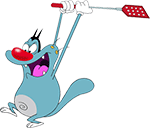
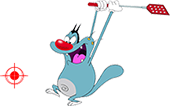
Added splash screen

diff --git a/Oggi/venv/main.py b/Oggi/venv/main.py
@@ -1,17 +1,40 @@
 import pygame
 import random
+import os
 from sprites import *
+import time
+
+pygame.init()
 
 HEIGHT = 800
 WIDTH = 1000
 QUANTITY_ROACHES = random.randint(5, 10)
-OGGI_SPRITE_UP = './Lib/1.jpg'
+OGGI_SPRITE_UP = './Lib/Oggi_up.png'
 OGGI_SPRITE_DOWN = './Lib/Oggi_down.png'
+LIST_SPRITES_NMBR = []
 LIST_ROACH_COORDS_X = []
 LIST_ROACH_COORDS_Y = []
 LIST_GRAVE_COORDS_X = []
 LIST_GRAVE_COORDS_Y = []
 ROACH_SPRITES = []
+timer = pygame.time.Clock()
+
+
+def game_intro():
+    intro = True
+    while intro:
+        for event in pygame.event.get():
+            if event.type == pygame.KEYDOWN:
+                pygame.QUIT
+                quit()
+                main()
+        pygame.font.init()
+        os.environ['SDL_VIDEO_WINDOW_POS'] = "%d,%d" % (750, 300)
+        screen = pygame.display.set_mode((480, 400), pygame.NOFRAME)
+        splash = pygame.image.load('./Lib/splash.png').convert_alpha()
+        screen.blit(splash, (0, 0))
+
+        pygame.display.update()
 
 
 def main():
@@ -19,7 +42,7 @@ def main():
     который отвечает за отрисовку спрайта курсора. В основном цикле реализован механизм
     отслеживания позиции курсора, а также нажатия кнопки мыши. """
     NEW_GAME = True
-    pygame.init()
+    os.environ['SDL_VIDEO_WINDOW_POS'] = "%d,%d" % (500, 200)
     sc = pygame.display.set_mode((WIDTH, HEIGHT))
     pygame.display.set_caption("Oggi and cockroaches")
     background = pygame.image.load('./Lib/background.jpg').convert_alpha()
@@ -40,8 +63,8 @@ def main():
         pygame.mouse.set_visible(False)
         for i3 in range(len(LIST_ROACH_COORDS_X)):
             roache_sprite.draw(sc, './Lib/roach' + str(ROACH_SPRITES[i3]) + '.png', LIST_ROACH_COORDS_X[i3],
-                               LIST_ROACH_COORDS_Y[i3])  # roache_sprite.draw(background_layout,
-            # path_to_image, coords_x, coords_y)
+                               LIST_ROACH_COORDS_Y[i3])  # roache_sprite.draw(background_layout, # path_to_image,
+                                                         # coords_x, coords_y)
         for i4 in pygame.event.get():
             mouse_x = pygame.mouse.get_pos()[0]
             mouse_y = pygame.mouse.get_pos()[1]
@@ -50,16 +73,20 @@ def main():
         if i4.type == pygame.MOUSEBUTTONDOWN:
             if i4.button == 1:
                 for i5 in range(len(LIST_ROACH_COORDS_X)):
-                    if LIST_ROACH_COORDS_X[i5] < mouse_x < LIST_ROACH_COORDS_X[i5] + 36:
-                        if LIST_ROACH_COORDS_Y[i5] < mouse_y < LIST_ROACH_COORDS_Y[i5] + 50:
+                    """Проверка попали ли курсором, по спрайту.
+                       Количество координат в LIST_ROACH_COORDS_X берется за основу количества тараканов"""
+                    if LIST_ROACH_COORDS_X[i5] < mouse_x + 10 < LIST_ROACH_COORDS_X[i5] + 36:
+                        if LIST_ROACH_COORDS_Y[i5] < mouse_y + 70 < LIST_ROACH_COORDS_Y[i5] + 50:
+                            """+10 и +70 берется для сопоставления курсора и положения хлопушки, на спрайте"""
                             print('Spoted')
                             LIST_GRAVE_COORDS_X.append(LIST_ROACH_COORDS_X[i5])
                             LIST_GRAVE_COORDS_Y.append(LIST_ROACH_COORDS_Y[i5])
                             del LIST_ROACH_COORDS_X[i5]
                             del LIST_ROACH_COORDS_Y[i5]
+                            del ROACH_SPRITES[i5]
                             break
-                oggi_hero.draw(sc, OGGI_SPRITE_DOWN, mouse_x,
-                               mouse_y)  # передает классу player.Oggi "background", "path to img sprite", coords X, Y"
+                oggi_hero.draw(sc, OGGI_SPRITE_DOWN, mouse_x, mouse_y)  # передает классу player.Oggi "background",
+                # "path to img sprite", coords X, Y"
                 pygame.display.update()
         else:
             oggi_hero.draw(sc, OGGI_SPRITE_UP, mouse_x, mouse_y)
@@ -70,4 +97,4 @@ def main():
 
 
 if __name__ == '__main__':
-    main()
+    game_intro()
